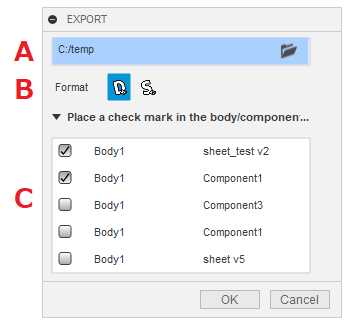
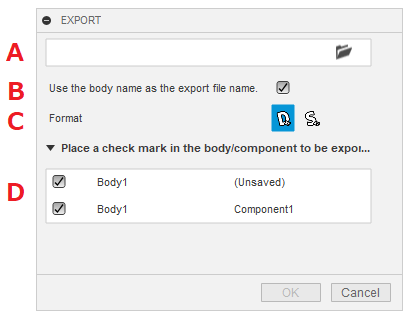
add use body name check button

diff --git a/BLACKSMITH/commands/SheetMetalExport/SheetMetalExportFactry.py b/BLACKSMITH/commands/SheetMetalExport/SheetMetalExportFactry.py
@@ -27,7 +27,8 @@ class SheetMetalExportFactry():
     def export_sheetMetal_flatPattern(
         self, sheetBodyIndexList: list, 
         optionList: list, 
-        folderPath: str
+        folderPath: str,
+        useBodyName: bool,
     ) -> list[str]:
         '''
         フラットパターンを作成してエクスポート
@@ -41,7 +42,7 @@ class SheetMetalExportFactry():
                     flat: fusion.FlatPattern = self._create_flatPattern(info['native'])
                     for suffix in optionList:
                         try:
-                            path = self._get_path(info, folderPath, SUFFIX_MAP[suffix])
+                            path = self._get_path(info, folderPath, SUFFIX_MAP[suffix], useBodyName)
                             dump(path)
                             if suffix == 'DXF':
                                 self._export_dxf(path, flat)
@@ -60,6 +61,7 @@ class SheetMetalExportFactry():
             self.app.executeTextCommand(u'Transaction.Abort')
 
         removeLst = [path for path in ngLst if pathlib.Path(path).exists()]
+        # pprint.pprint(ngLst)
         # pprint.pprint(removeLst)
         for f in removeLst:
             os.remove(f)
@@ -175,7 +177,7 @@ class SheetMetalExportFactry():
         res = expMgr.execute(dxfOpt)
 
 
-    def _get_path(self, info: dict, folderPath: str, suffix: str) -> str:
+    def _get_path(self, info: dict, folderPath: str, suffix: str, useBodyName: bool) -> str:
         '''
         ユニークなファイルパス取得
         '''
@@ -184,7 +186,9 @@ class SheetMetalExportFactry():
             body: fusion.BRepBody= info['native']
             comp: fusion.Component = body.parentComponent
             rule: fusion.SheetMetalRule = comp.activeSheetMetalRule
-            stem = f'{body.name}-{comp.name}-{rule.name}-{rule.thickness.expression}'
+            stem = f'{comp.name}-{rule.name}-{rule.thickness.expression}'
+            if useBodyName:
+                stem = f'{body.name}-{stem}'
 
             return re.sub(r'[\\|/|:|?|.|"|<|>|\|]', '_', stem)
 

diff --git a/BLACKSMITH/commands/SheetMetalExport/entry.py b/BLACKSMITH/commands/SheetMetalExport/entry.py
@@ -55,6 +55,7 @@ local_handlers = []
 # inputs
 _pathButtonIpt: core.BoolValueCommandInput = None
 _pathTxtIpt: core.TextBoxCommandInput = None
+_useBodyNameIpt: core.BoolValueCommandInput = None
 _optButtonIpt: core.ButtonRowCommandInput = None
 _options = (
     ('DXF', True, str(pathlib.Path(ICON_FOLDER) / 'dxf')),
@@ -159,6 +160,16 @@ def command_created(args: core.CommandCreatedEventArgs):
         False
     )
     tableFolder.addCommandInput(_pathButtonIpt, 1, 1)
+
+    # ボディ名の使用
+    global _useBodyNameIpt
+    _useBodyNameIpt = inputs.addBoolValueInput(
+        "_useBodyNameIptId",
+        _lm.s("Use the body name as the export file name."),
+        True,
+        "",
+        True,
+    )
 
     # フォーマット
     global _optButtonIpt, _options
@@ -274,10 +285,12 @@ def command_execute(args: core.CommandEventArgs):
     global _table
     global _optButtonIpt
     global _fact, _pathTxtIpt
+    global _useBodyNameIpt
     ngLst = _fact.export_sheetMetal_flatPattern(
         get_check_on_indexs(_table),
         get_check_on_option_indexs(_optButtonIpt),
         _pathTxtIpt.text,
+        _useBodyNameIpt.value,
     )
 
     if len(ngLst) > 0:

diff --git a/BLACKSMITH/commands/__init__.py b/BLACKSMITH/commands/__init__.py
@@ -4,7 +4,7 @@
 # If you want to add an additional command, duplicate one of the existing directories and import it here.
 # You need to use aliases (import "entry" as "my_module") assuming you have the default module named "entry".
 
-from .FlatPatternExport import entry as FlatPatternExport
+# from .FlatPatternExport import entry as FlatPatternExport
 from .Convert2SolidBody import entry as Convert2SolidBody
 from .SheetMetalExport import entry as SheetMetalExport
 
@@ -12,7 +12,7 @@ from .SheetMetalExport import entry as SheetMetalExport
 # Fusion will automatically call the start() and stop() functions.
 commands = [
     SheetMetalExport,
-    FlatPatternExport,
+    # FlatPatternExport,
     Convert2SolidBody,
 ]
 

diff --git a/BLACKSMITH/commands/SheetMetalExport/README.md b/BLACKSMITH/commands/SheetMetalExport/README.md
@@ -17,10 +17,11 @@ By clicking on it, a dialog box will appear.
 
 ![Alt text](./resources_readme/dialog_eng.png)
 + A : Place a check mark in the body/component to be exported.
-+ B : Specify the output format.
++ B : Uncheck the box if you do not want to include the body name in the output file name.
++ C : Specify the output format.
   + DXF: Export DXF.
   + SAT: Export SAT. (Bend lines are also exported.)
-+ C : Check the components to be output.
++ D : Check the components to be output.
   + The sheet metal body and the component name it belongs to will be listed.
   + For the sheet metal body shown, there is a pre-check mark.
   + No need to pre-create flat patterns.
@@ -72,10 +73,11 @@ The following environment is confirmed.
 
 ![Alt text](./resources_readme/dialog_jpn.png)
 + A : 出力先のフォルダを選択してください。
-+ B : 出力フォーマットを指定してください。
++ B : 出力ファイル名にボディ名を含め無い場合は、チェックを外してください。
++ C : 出力フォーマットを指定してください。
   + DXF: DXFをエクスポートします。
   + SAT: SATをエクスポートします。(ベンドラインもエクスポートします。)
-+ C : 出力するボディ/コンポーネントにチェックを入れます。
++ D : 出力するボディ/コンポーネントにチェックを入れます。
   + シートメタルボディと所属するコンポーネント名がリストされます。
   + 表示されているシートメタルボディについては事前にチェックが入っています。
   + フラットパターンを事前に作成する必要はありません。

diff --git a/CHANGELOG.md b/CHANGELOG.md
@@ -1,5 +1,8 @@
 # Change of Fusion360_BLACKSMITH
 
+## 0.0.12
++ テストコマンドの削除
++ ファイル名にボディ名を含めるか　オプション追加(エクスポート)
 
 ## 0.0.11
 + 再シートメタルボディ化時のエラー修正(ソリッドへ変換)

diff --git a/README.md b/README.md
@@ -25,7 +25,7 @@ Please see the description for each command.
 
 The following environment is confirmed.
 
-- Fusion360 Ver2.0.15509
+- Fusion360 Ver2.0.17457
 - Windows10 64bit Pro , Home
 
 ---
